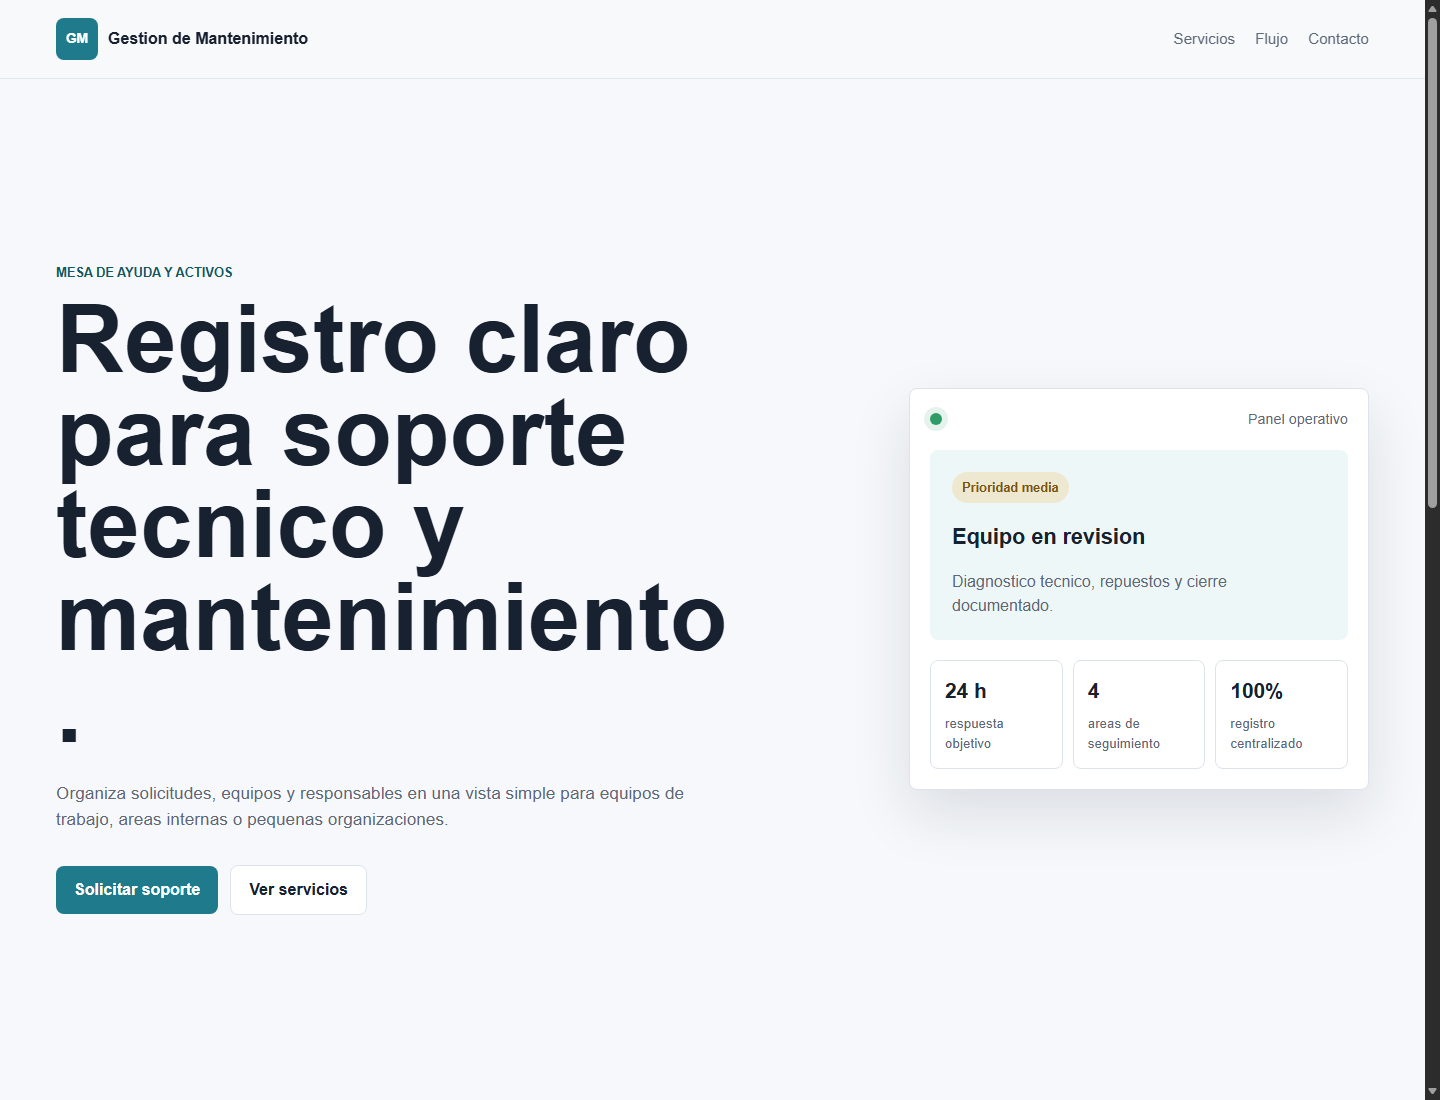
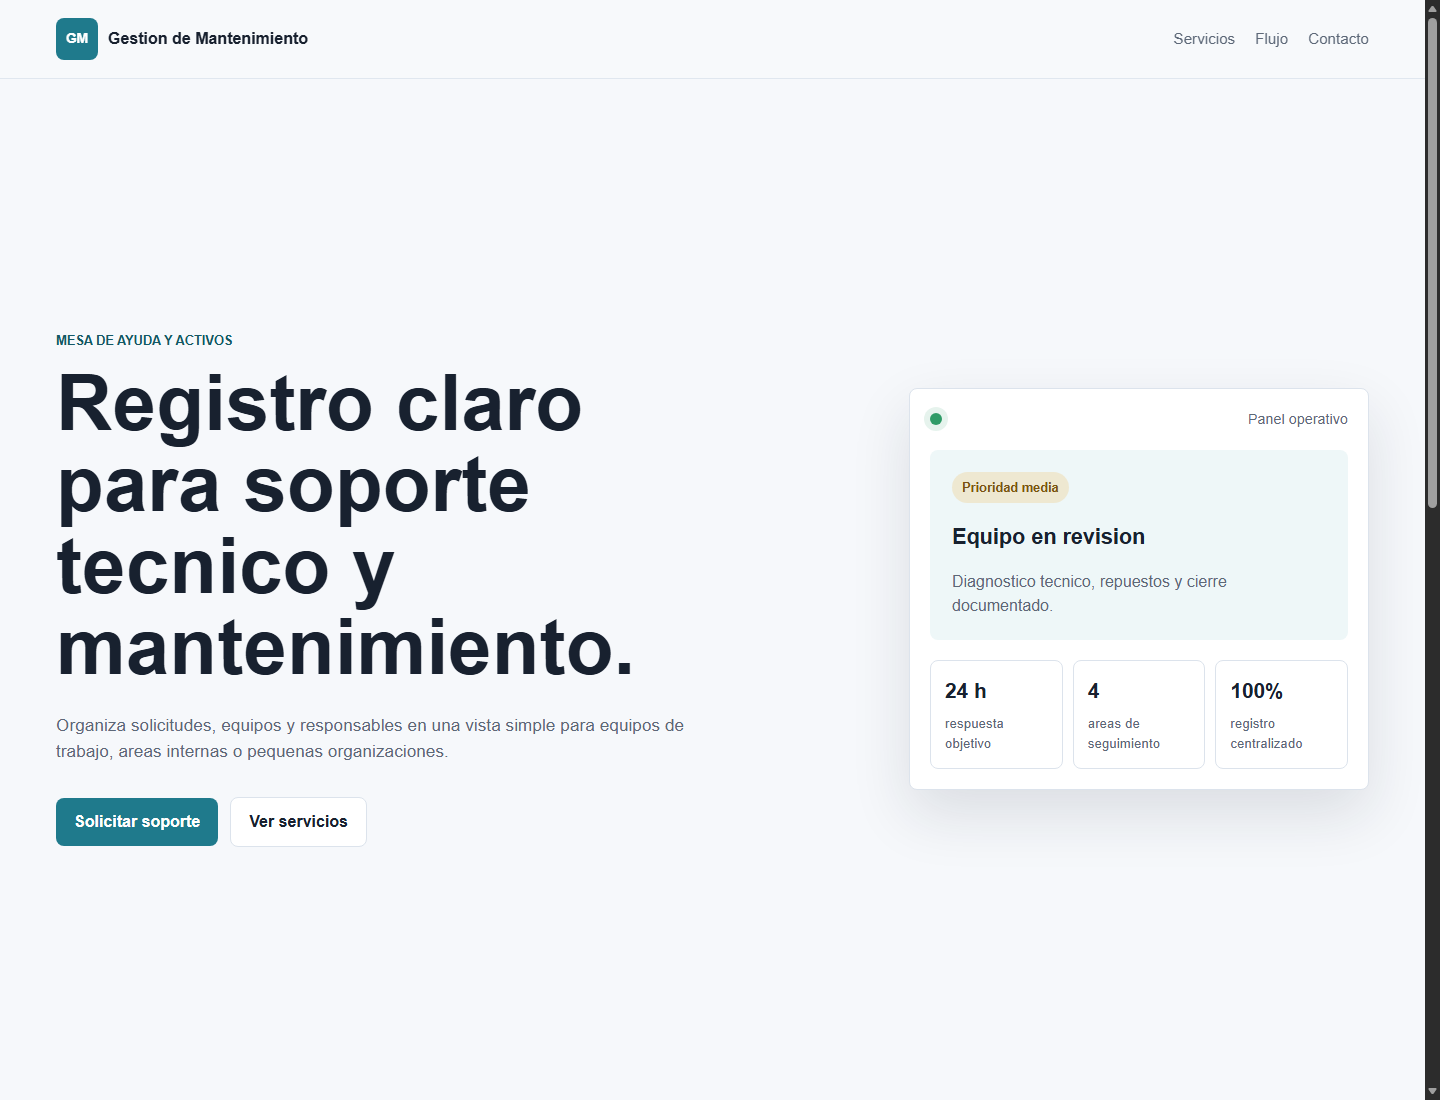
Mejora visual
Optimizacion

Changed region(s): [[0.0312, 0.2473, 0.5, 0.6182], [0.0312, 0.6491, 0.4688, 0.8345]]

diff --git a/pagina_curso/static/css/site.css b/pagina_curso/static/css/site.css
@@ -25,6 +25,7 @@ body {
     color: var(--text);
     font-family: Arial, Helvetica, sans-serif;
     line-height: 1.5;
+    overflow-x: hidden;
 }
 
 a {
@@ -96,6 +97,7 @@ a {
 .contact-section {
     max-width: 1180px;
     margin: 0 auto;
+    min-width: 0;
     width: 100%;
 }
 
@@ -116,10 +118,10 @@ p {
 }
 
 h1 {
-    max-width: 760px;
+    max-width: 700px;
     margin: 0;
-    font-size: clamp(2.5rem, 8vw, 5.9rem);
-    line-height: 0.98;
+    font-size: clamp(2.45rem, 6.5vw, 4.9rem);
+    line-height: 1.04;
     letter-spacing: 0;
 }
 
@@ -175,6 +177,7 @@ h3 {
 .status-panel {
     width: min(100%, 460px);
     justify-self: end;
+    overflow: hidden;
     border: 1px solid var(--line);
     border-radius: 8px;
     padding: 20px;
@@ -184,6 +187,7 @@ h3 {
 
 .panel-header {
     justify-content: space-between;
+    gap: 16px;
     color: var(--muted);
     font-size: 0.9rem;
 }
@@ -359,7 +363,8 @@ h3 {
 
     .nav-links {
         width: 100%;
-        justify-content: space-between;
+        flex-wrap: wrap;
+        justify-content: flex-start;
         gap: 10px;
     }
 
@@ -371,12 +376,35 @@ h3 {
 
     .hero {
         min-height: auto;
+        overflow: hidden;
+        padding-inline: 20px;
+    }
+
+    .hero-copy {
+        max-width: calc(100vw - 40px);
+    }
+
+    h1 {
+        max-width: calc(100vw - 40px);
+        font-size: clamp(2rem, 9vw, 2.4rem);
+    }
+
+    .hero-text,
+    .status-panel,
+    .ticket-card,
+    .mini-grid,
+    .contact-card {
+        max-width: calc(100vw - 40px);
     }
 
     .status-panel,
     .contact-card {
-        justify-self: stretch;
-        width: 100%;
+        justify-self: start;
+        width: calc(100vw - 72px);
+    }
+
+    .panel-header {
+        justify-content: flex-start;
     }
 
     .service-grid,

diff --git a/README.md b/README.md
@@ -1,3 +1,80 @@
-# Proyecto paguina de mantenimiento y registro
-Es un sistema de registro informático en Django ദ്ദി ˉ͈̀꒳ˉ͈́ )✧ que sirve para almacenar y dejar registros de las impresoras, PCs, etc., que necesitan mantenimiento, en pocas palabras, y brindar un servicio más rápido a los usuarios.ಇ. 
+# Gestion de Mantenimiento
 
+Aplicacion web en Django para registrar solicitudes, equipos y tareas de soporte tecnico. El contenido esta escrito con nombres genericos para que el proyecto pueda adaptarse a cualquier equipo, empresa, institucion o area interna.
+
+## Capturas
+
+### Vista escritorio
+
+![Vista escritorio](docs/screenshots/home-desktop.png)
+
+### Vista movil
+
+![Vista movil](docs/screenshots/home-mobile.png)
+
+## Funcionalidades actuales
+
+- Pagina principal responsive con contenido generico.
+- Secciones de servicios, flujo de trabajo y contacto.
+- Panel de resumen operativo para destacar estado, tiempos y seguimiento.
+- Configuracion regional para Chile: idioma `es-cl` y zona horaria `America/Santiago`.
+- Archivos estaticos organizados en `pagina_curso/static`.
+
+## Tecnologias
+
+- Python
+- Django
+- HTML
+- CSS
+- SQLite
+
+## Instalacion
+
+1. Crear un entorno virtual:
+
+```powershell
+python -m venv .venv
+```
+
+2. Activar el entorno:
+
+```powershell
+.venv\Scripts\Activate.ps1
+```
+
+3. Instalar dependencias:
+
+```powershell
+pip install -r requirements.txt
+```
+
+4. Ejecutar el servidor:
+
+```powershell
+cd pagina_curso
+python manage.py runserver
+```
+
+5. Abrir la pagina:
+
+```text
+http://127.0.0.1:8000/
+```
+
+## Estructura principal
+
+```text
+.
+├── docs/screenshots/
+├── pagina_curso/
+│   ├── mantenimiento/
+│   ├── pagina_curso/
+│   ├── static/css/site.css
+│   └── templates/mantenimiento/home.html
+├── requirements.txt
+└── README.md
+```
+
+## Notas
+
+El proyecto esta listo como base visual. El siguiente paso natural es agregar modelos para equipos, solicitudes, estados y responsables, y conectar formularios reales para registrar mantenimientos.